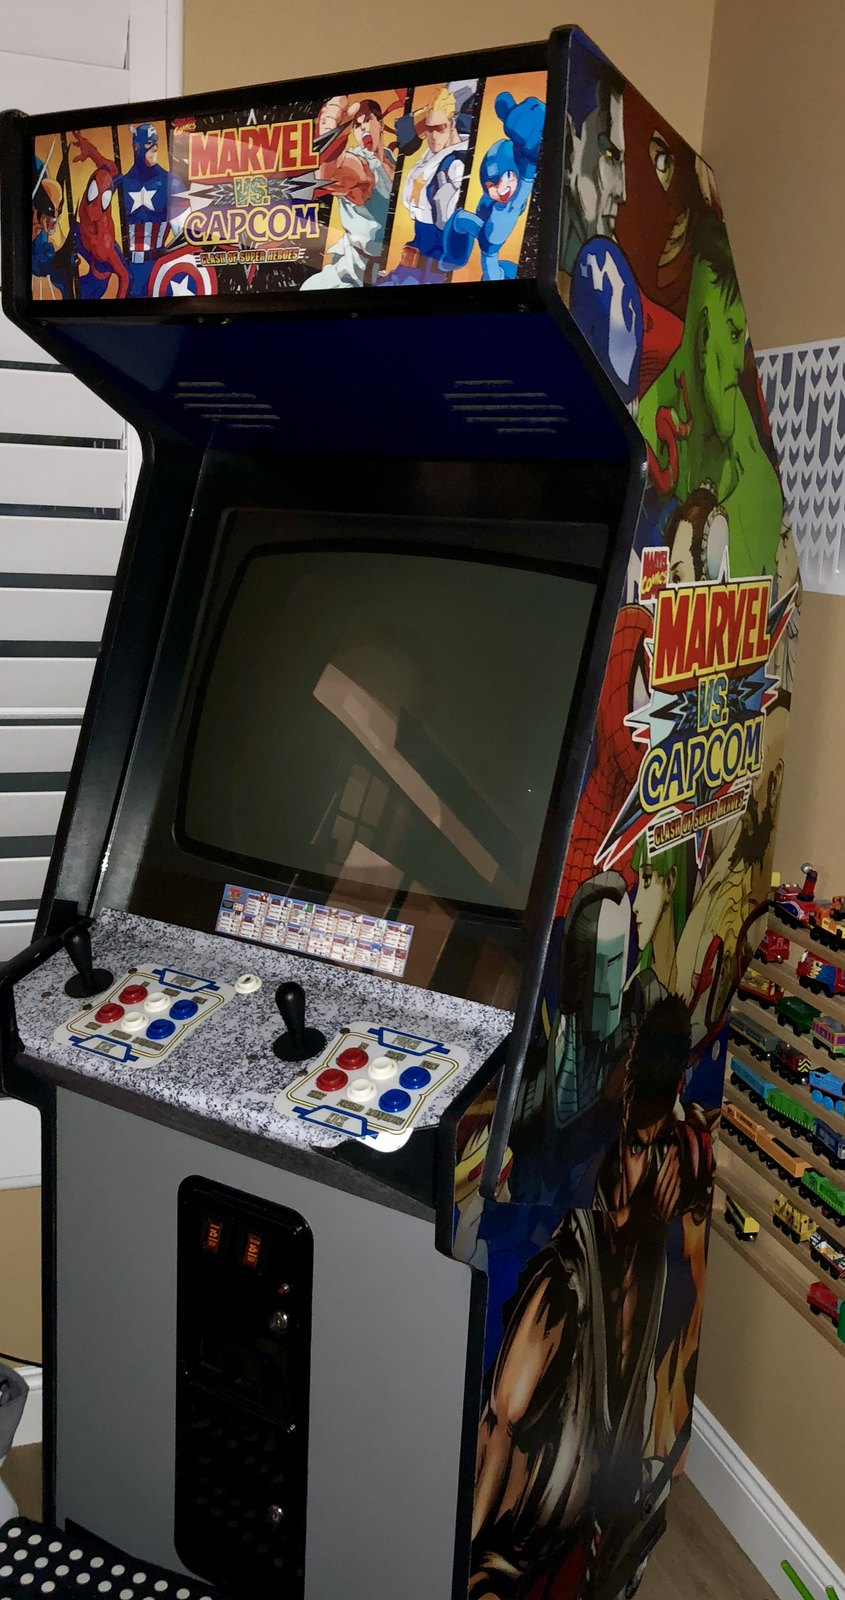
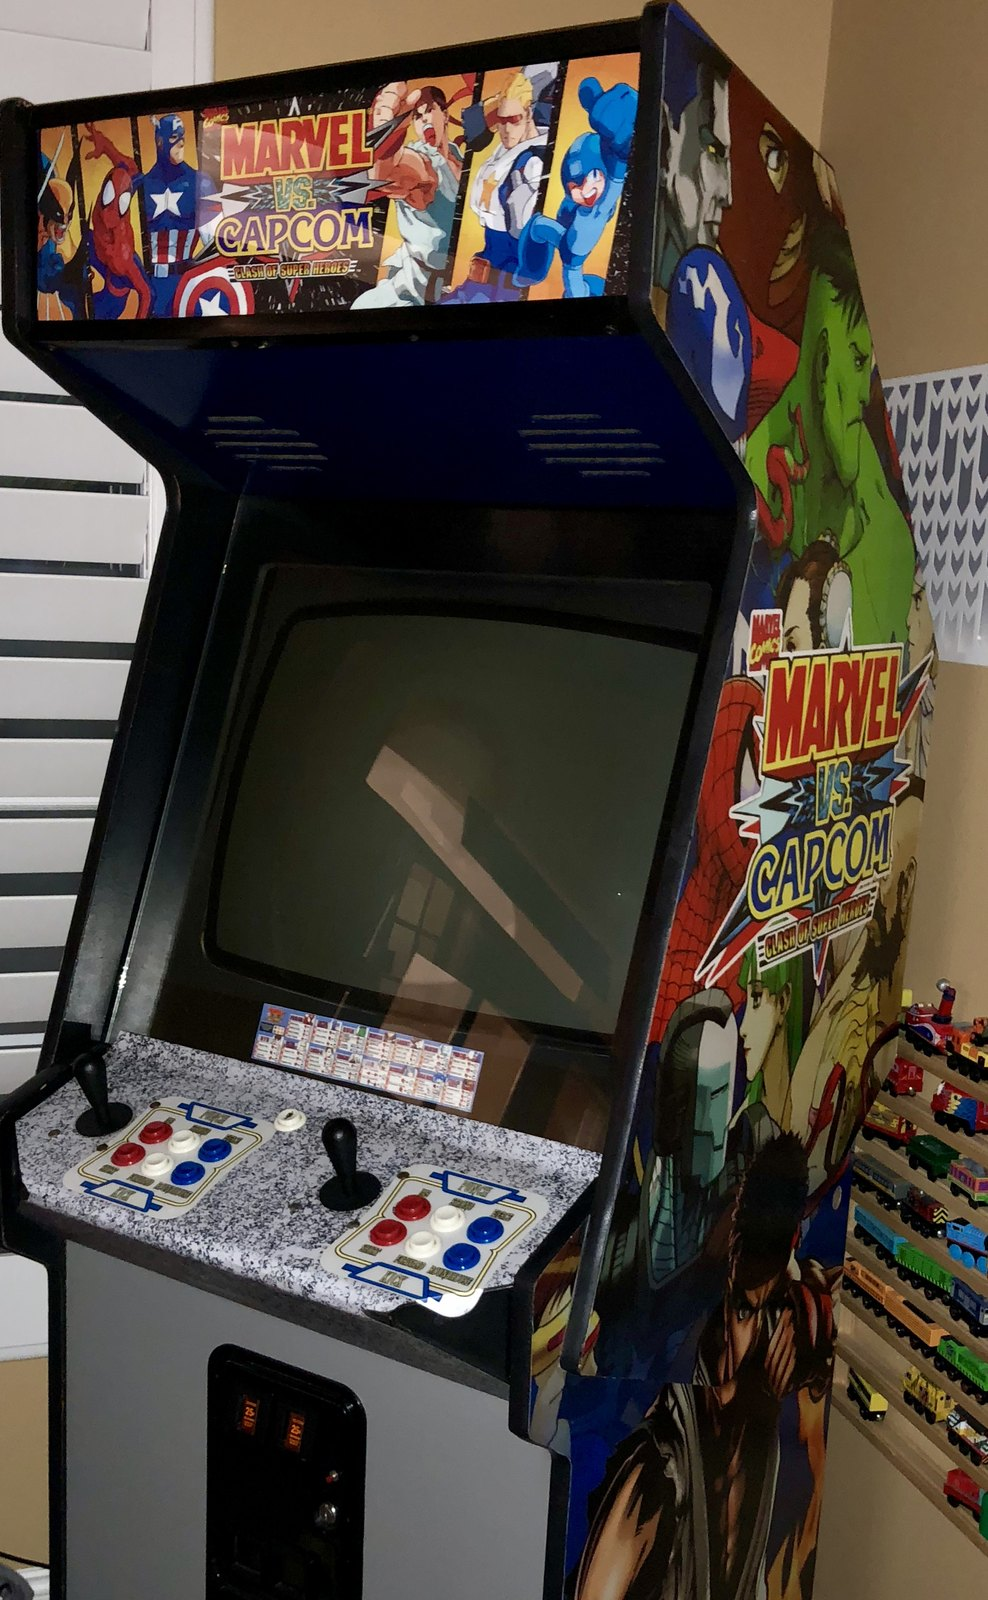
Tighten the Marvel vs. Capcom crop so its memoriam row sits level

diff --git a/games.html b/games.html
@@ -290,7 +290,7 @@
   <section id="memoriam">
     <h2 class="sec">In memoriam <small>machines that passed through on their way to someone else's story</small></h2>
     <div class="grid c3">
-      <figure class="shot"><img src="media/thumbs/alumni-marvel-vs-capcom.jpg" data-full="media/2026/alumni-marvel-vs-capcom.jpg" alt="Marvel vs. Capcom: Clash of Super Heroes upright arcade cabinet with full-wrap side art and a lit marquee" loading="lazy" width="800" height="1515"><figcaption><b>Marvel vs. Capcom</b> — where the collection started</figcaption></figure>
+      <figure class="shot"><img src="media/thumbs/alumni-marvel-vs-capcom.jpg?v=2" data-full="media/2026/alumni-marvel-vs-capcom.jpg?v=2" alt="Marvel vs. Capcom: Clash of Super Heroes upright arcade cabinet with full-wrap side art and a lit marquee" loading="lazy" width="800" height="1295"><figcaption><b>Marvel vs. Capcom</b> — where the collection started</figcaption></figure>
       <figure class="shot"><img src="media/thumbs/alumni-neo-geo-mvs.jpg" data-full="media/2026/alumni-neo-geo-mvs.jpg" alt="Red SNK Neo Geo MVS arcade cabinet running Metal Slug" loading="lazy" width="800" height="1067"><figcaption><b>Neo Geo MVS</b></figcaption></figure>
       <figure class="shot"><img src="media/thumbs/alumni-banzai-run.jpg" data-full="media/2026/alumni-banzai-run.jpg" alt="Williams Banzai Run pinball machine" loading="lazy" width="800" height="1098"><figcaption><b>Williams Banzai Run</b></figcaption></figure>
       <figure class="shot"><img src="media/thumbs/alumni-smb-mushroom-world.jpg" data-full="media/2026/alumni-smb-mushroom-world.jpg" alt="Gottlieb Super Mario Bros. Mushroom World pinball machine" loading="lazy" width="800" height="1136"><figcaption><b>Gottlieb Super Mario Bros. Mushroom World</b></figcaption></figure>
